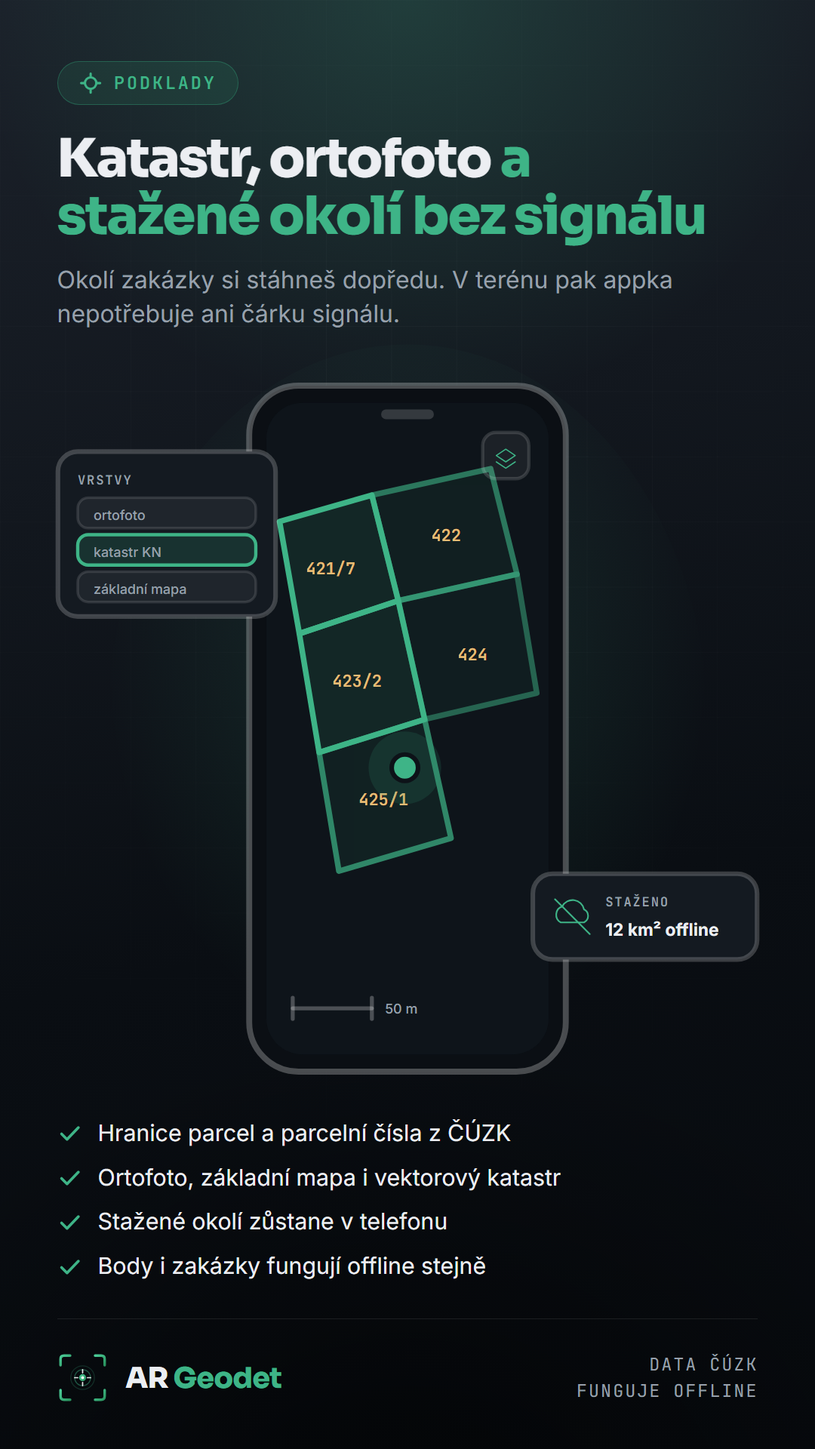
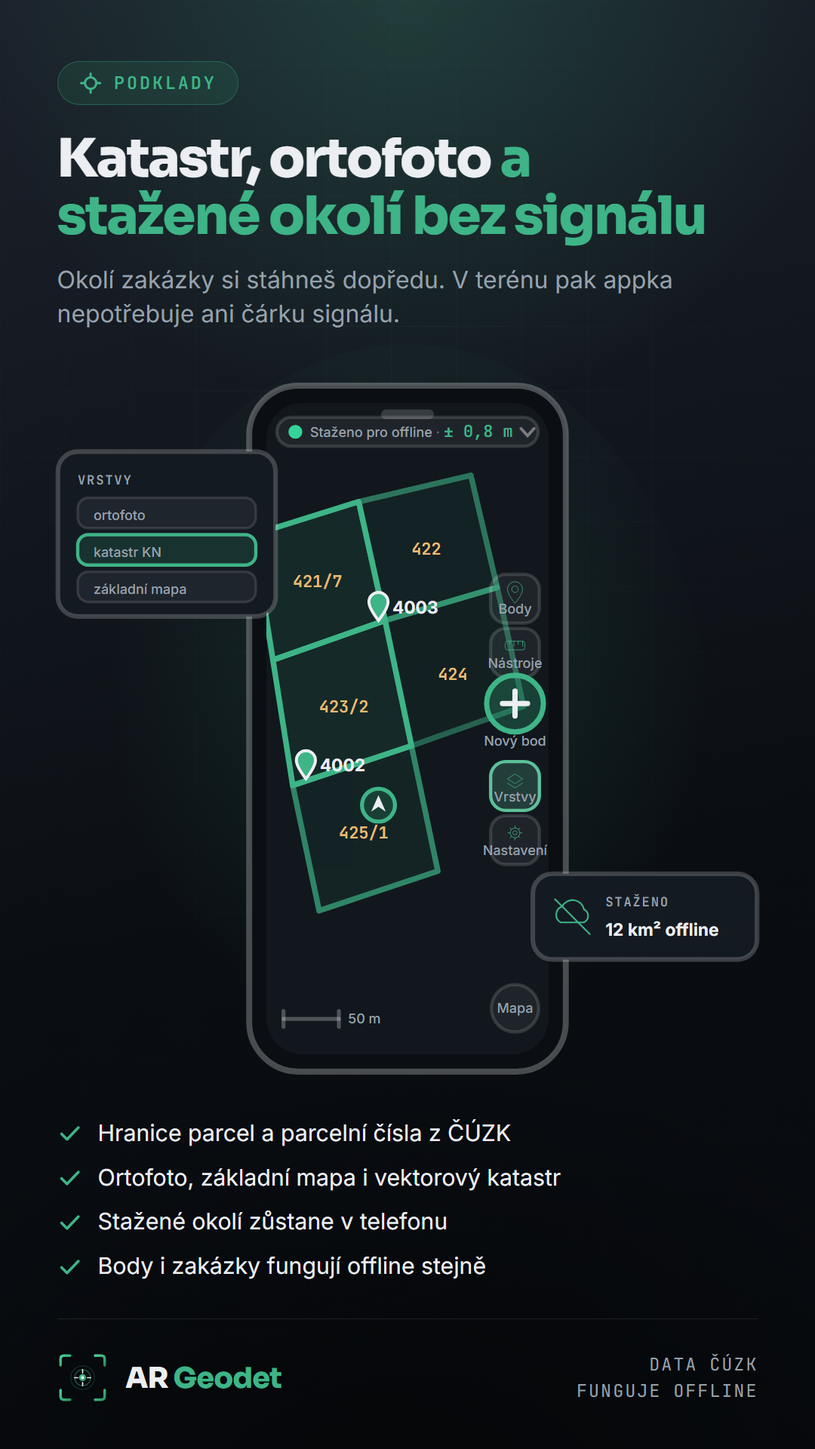
Rozhrani na promo obrazcich je OPSANE Z APPKY, ne vymyslene
Uzivatel: "jen to moc nevypada podle aplikace designem."

Mel pravdu — predloha si rozhrani VYMYSLELA: spodni lista, vystredene pilulky,
kroužky misto znacek. Appka vypada jinak. Nafotil jsem si ji tedy nabehnutou
v Chromiu (mapa, Nastroje) a podobu prekreslil podle snimku:

  • STAVOVA PILULKA nahore pres celou sirku: barevna tecka, hlaska, „· ± 0,8 m"
    a sipka na rozbaleni. Ne vystredena bublina.
  • SVISLY DOK U PRAVEHO OKRAJE, ne dole: Body · Nastroje · Novy bod · Vrstvy ·
    Nastaveni. Sklenene zaoblene ctverce s ikonou nahore a popiskem pod ni;
    „Novy bod" je VELKE ZELENE KOLECKO s +, ktere z rady vystupuje.
  • ZNACKY BODU jsou KAPKY (ne krouzky) v akcentni zelene s bilym obrysem
    a tucnym cislem bodu vedle. MOJE POLOHA je zeleny krouzek se sipkou.
  • OKNA jsou celoobrazovkova: zeleny nadpis s ikonou vlevo, kulate ✕ vpravo,
    vlaskova linka, hledaci pole, sekce VELKYMI PISMENY s poctem vpravo a radky
    se zelenou ikonou, tucnym nazvem a sedym podtitulkem, dole „Zavrit".
    Panel 3 je okno NASTROJE i se skutecnymi nazvy nastroju z appky, panel 4
    okno BODY se seznamem bodu zakazky.

⚠ MERITKO PODLE APPKY, NE OD OKA. Kapka je v appce ~28 px na displeji sirokem
412, tedy 2,9 jednotky souradnic sceny. Napoprvé byla dvojnasobna a znacky
prelezly pul obrazovky i dok — vypadalo to jako jina appka. Totez moje poloha.
Sirku doku urcuje NEJDELSI POPISEK („Nastaveni"), ne ikona.

Dalsi drobnosti videt az na PNG: kapka 4003 sedela presne na parcelnim cisle
[…]

Changed region(s): [[0.3056, 0.2812, 0.6722, 0.625], [0.3361, 0.6875, 0.4889, 0.7188], [0.6111, 0.6875, 0.6722, 0.7188]]

diff --git a/play/promo.html b/play/promo.html
@@ -415,20 +415,19 @@
     var T = { x: 31, y: 4, w: 48, h: 104, r: 7.5 };            // tělo telefonu
     var O = { x: T.x + 2.6, y: T.y + 2.6, w: T.w - 5.2, h: T.h - 5.2, r: 5.5 };  // obrazovka
 
-    // Obsah obrazovky se píše v JEJÍCH SOUŘADNICÍCH (0,0 = levý horní roh
+    // Obsah obrazovky se píše v JEJÍCH souřadnicích (0,0 = levý horní roh
     // obrazovky) a tahle obálka ho posune na místo. Bez toho by se každé
     // číslo muselo ručně přičítat k O.x / O.y a při posunu telefonu by se
     // přepisovala celá scéna.
     function displej(vnitrek) {
-        // ⚠ OŘEZ TVAREM OBRAZOVKY. Bez něj čtvercové výplně (obloha, mapa)
-        //    přetekly přes zaoblené rohy a telefon vypadal, jako by měl
-        //    obrazovku nalepenou přes rám.
+        // ⚠⚠ OŘEZ SE POČÍTÁ V SOUŘADNICÍCH OŘEZÁVANÉHO PRVKU, TEDY UŽ PO JEHO
+        //    `transform`. Napoprvé tu byl obdélník na absolutní pozici obrazovky
+        //    (O.x, O.y) — jenže skupina, na kterou se váže, je sama posunutá
+        //    o totéž, takže se ořez posunul dvakrát a z obrazovky zbyl proužek
+        //    u pravého okraje. Proto má clipPath 0,0 a jen rozměr obrazovky.
         return '<g clip-path="url(#displej)" transform="translate(' + O.x + ' ' + O.y + ')">' + vnitrek + '</g>';
     }
 
-    // Rám telefonu: záře pod ním, tělo, obrazovka, sluchátko. Záře je
-    // radiální přechod, ne filtr — filtry v Chromiu při screenshotu občas
-    // vyjdou zrnitě a tady jde o čistou plochu.
     function telefon(vnitrek) {
         return '' +
             '<ellipse cx="' + (T.x + T.w / 2) + '" cy="' + (T.y + T.h / 2) + '" rx="' + (T.w * 0.95) + '" ry="' + (T.h * 0.56) + '" fill="url(#zare)"/>' +
@@ -447,86 +446,182 @@
     var S = O.w;      // šířka obrazovky — obsah se do ní musí vejít
     var SV = O.h;     // výška obrazovky
 
+    // ==================================================================
+    // ROZHRANÍ APPKY — OPSANÉ Z NÍ, NE VYMYŠLENÉ
+    // ==================================================================
+    // ⚠⚠ NAHLÁŠENO 31. 8. 2026: „jen to moc nevypadá podle aplikace designem."
+    // Do té doby si předloha rozhraní VYMÝŠLELA (spodní lišta, vystředěné
+    // pilulky), zatímco appka má úplně jiné rozvržení. Podoba níž je opsaná
+    // ze skutečných snímků běžící appky:
+    //
+    //   • STAVOVÁ PILULKA nahoře přes celou šířku: barevná tečka, hláška,
+    //     „· ± 0,8 m · Azimut: 214,6°" a šipka na rozbalení. Čísla mono.
+    //   • SVISLÝ DOK U PRAVÉHO OKRAJE (ne dole!): Body · Nástroje ·
+    //     Nový bod · Vrstvy · Nastavení. Skleněné zaoblené čtverce s ikonou
+    //     nahoře a popiskem pod ní; „Nový bod" je VELKÉ ZELENÉ KOLEČKO s +,
+    //     které z řady vystupuje.
+    //   • ZNAČKY BODŮ jsou KAPKY (ne kroužky) v akcentní zelené s bílým
+    //     obrysem a tučným číslem bodu vedle.
+    //   • MOJE POLOHA je zelený kroužek se šipkou uvnitř.
+    //   • OKNA (Nástroje, Body) jsou celoobrazovková: zelený nadpis s ikonou
+    //     vlevo, kulaté ✕ vpravo, vlásková linka, hledací pole, sekce
+    //     VELKÝMI PÍSMENY s počtem vpravo a řádky se zelenou ikonou,
+    //     tučným názvem a šedým podtitulkem. Dole tlačítko „Zavřít".
+    //
+    // Kdyby se appka překreslila, TOHLE je místo, které se musí srovnat —
+    // jinak budou obrázky v obchodě slibovat něco jiného, než co se spustí.
+
+    // svislý dok u pravého okraje
+    // ⚠ ŠÍŘKA DOKU JE DANÁ NEJDELŠÍM POPISKEM („Nastavení"), ne ikonou. Napoprvé
+    //   byl dok užší a popisky mu přetékaly do mapy.
+    var DOK_X = S - 8.8, DOK_W = 7.4;
+    function dokTlacitko(y, ikona, popis) {
+        return '<rect class="ui" x="' + DOK_X + '" y="' + y + '" width="' + DOK_W + '" height="' + DOK_W + '" rx="2.3"/>' +
+            '<g class="lin" stroke-width="0.75" transform="translate(' + (DOK_X + DOK_W / 2) + ' ' + (y + 2.6) + ') scale(0.082)">' + ikona + '</g>' +
+            '<text class="t-drobne" x="' + (DOK_X + DOK_W / 2) + '" y="' + (y + 6) + '" text-anchor="middle" font-size="1.15">' + popis + '</text>';
+    }
+    var I_BODY = '<path d="M0 22 C0 22 -14 6 -14 -4 a14 14 0 0 1 28 0 C14 6 0 22 0 22 Z"/><circle cx="0" cy="-4" r="6"/>';
+    var I_METR = '<rect x="-18" y="-8" width="36" height="16" rx="4"/><path d="M-10 -8v6M-2 -8v9M6 -8v6M14 -8v9"/>';
+    var I_VRSTVY = '<path d="M-14 0 L0 -9 L14 0 L0 9 Z"/><path d="M-14 8 L0 17 L14 8"/>';
+    // ⚠ Zuby MUSÍ být krátké a kolo mít vnitřní kroužek — s dlouhými paprsky to
+    //   v téhle velikosti vypadalo jako sluníčko (jas), ne jako nastavení.
+    var I_OZUB = '<circle cx="0" cy="0" r="9"/><circle cx="0" cy="0" r="4"/>' +
+        '<path d="M0 -13v4M0 9v4M-13 0h4M9 0h4M-9.2 -9.2l2.8 2.8M6.4 6.4l2.8 2.8M9.2 -9.2l-2.8 2.8M-6.4 6.4l-2.8 2.8"/>';
+    function dok(aktivni) {
+        function zvyraznit(y) {
+            return aktivni ? '<rect x="' + DOK_X + '" y="' + y + '" width="' + DOK_W + '" height="' + DOK_W + '" rx="2.3" fill="rgba(47,158,116,0.20)" stroke="#3eb487" stroke-width="0.5"/>' : '';
+        }
+        return '' +
+            dokTlacitko(26, I_BODY, 'Body') +
+            dokTlacitko(34.2, I_METR, 'Nástroje') +
+            // „Nový bod" je v appce velké zelené kolečko, které z řady vystupuje
+            '<circle cx="' + (DOK_X + DOK_W / 2) + '" cy="45.6" r="4.3" fill="rgba(47,158,116,0.30)" stroke="#3eb487" stroke-width="0.8"/>' +
+            '<path d="M' + (DOK_X + DOK_W / 2 - 1.9) + ' 45.6h3.8M' + (DOK_X + DOK_W / 2) + ' 43.7v3.8" stroke="#eceef2" stroke-width="0.8" stroke-linecap="round"/>' +
+            '<text class="t-drobne" x="' + (DOK_X + DOK_W / 2) + '" y="52" text-anchor="middle" font-size="1.15">Nový bod</text>' +
+            (aktivni === 'vrstvy' ? zvyraznit(54.4) : '') +
+            dokTlacitko(54.4, I_VRSTVY, 'Vrstvy') +
+            dokTlacitko(62.6, I_OZUB, 'Nastavení');
+    }
+
+    // horní stavová pilulka appky
+    function stav(hlaska, barva) {
+        return '<rect class="ui" x="1.6" y="2.2" width="' + (S - 3.2) + '" height="4.4" rx="2.2"/>' +
+            '<circle cx="4.4" cy="4.4" r="1.05" fill="' + (barva || '#34d399') + '"/>' +
+            '<text class="t-drobne" x="6.6" y="5.15" font-size="1.85">' + hlaska +
+            '  <tspan class="cs-sep"> · </tspan>' +
+            '  <tspan class="t-akcent" font-size="1.85">± 0,8 m</tspan></text>' +
+            '<path d="M' + (S - 4.2) + ' 3.9 l1 1.1 l1 -1.1" fill="none" stroke="rgba(255,255,255,0.4)" stroke-width="0.45" stroke-linecap="round"/>';
+    }
+
+    // kapkovitá značka bodu s tučným číslem vedle — přesně jako v mapě appky
+    // ⚠ MĚŘÍTKO PODLE APPKY, NE OD OKA. Kapka je v appce ~28 px na displeji
+    //   širokém 412, tedy 2,9 jednotky téhle soustavy. Napoprvé byla dvojnásobná
+    //   a značky přelezly půl obrazovky i dok — vypadalo to jako jiná appka.
+    function pin(x, y, cislo, vzdalenost) {
+        return '<g transform="translate(' + x + ' ' + y + ') scale(0.5)">' +
+            '  <path d="M0 0 C0 0 -2.9 -3.6 -2.9 -5.6 a2.9 2.9 0 0 1 5.8 0 C2.9 -3.6 0 0 0 0 Z" fill="#3eb487" stroke="#eceef2" stroke-width="0.9"/>' +
+            '</g>' +
+            '<text class="t-nadpis" x="' + (x + 2.1) + '" y="' + (y - 1.1) + '" font-size="1.85">' + cislo +
+            (vzdalenost ? '  <tspan class="t-cislo" font-size="1.7">  ' + vzdalenost + '</tspan>' : '') +
+            '</text>';
+    }
+
+    // moje poloha: zelený kroužek se šipkou
+    function poloha(x, y) {
+        return '<circle cx="' + x + '" cy="' + y + '" r="2.5" fill="rgba(47,158,116,0.22)" stroke="#3eb487" stroke-width="0.6"/>' +
+            '<path d="M' + x + ' ' + (y - 1.5) + ' l1.1 2.5 l-1.1 -0.75 l-1.1 0.75 Z" fill="#eceef2"/>';
+    }
+
+    // celoobrazovkové okno appky (Nástroje, Body): nadpis, ✕, linka, obsah
+    function okno(nadpis, ikona, obsah, tlacitko) {
+        return '' +
+            '<rect x="0" y="0" width="' + S + '" height="' + SV + '" fill="#0d1218"/>' +
+            '<g class="lin" stroke-width="0.7" transform="translate(4.4 5.4) scale(0.1)">' + ikona + '</g>' +
+            '<text x="8.4" y="6.3" font-size="3.4" font-weight="700" fill="#3eb487" font-family="Sora, Inter, sans-serif">' + nadpis + '</text>' +
+            '<circle cx="' + (S - 4.6) + '" cy="5.2" r="2.8" fill="rgba(255,255,255,0.07)" stroke="rgba(255,255,255,0.16)" stroke-width="0.45"/>' +
+            '<path d="M' + (S - 5.7) + ' 4.1 l2.2 2.2 M' + (S - 3.5) + ' 4.1 l-2.2 2.2" stroke="#eceef2" stroke-width="0.6" stroke-linecap="round"/>' +
+            '<line class="lin-tenka" x1="1.6" y1="9.4" x2="' + (S - 1.6) + '" y2="9.4"/>' +
+            obsah +
+            '<rect class="ui" x="1.6" y="' + (SV - 8.6) + '" width="' + (S - 3.2) + '" height="6.4" rx="2.2"/>' +
+            '<text class="t-nadpis" x="' + (S / 2) + '" y="' + (SV - 4.3) + '" text-anchor="middle" font-size="2.5">' + (tlacitko || 'Zavřít') + '</text>';
+    }
+    // sekce v okně: VELKÝMI PÍSMENY vlevo, počet vpravo, vlásková linka pod
+    function sekce(y, jmeno, pocet) {
+        return '<text class="t-stitek" x="1.6" y="' + y + '" font-size="1.9">' + jmeno + '</text>' +
+            '<text class="t-drobne" x="' + (S - 1.6) + '" y="' + y + '" text-anchor="end" font-size="1.9">' + pocet + '</text>' +
+            '<line class="lin-tenka" x1="1.6" y1="' + (y + 1.8) + '" x2="' + (S - 1.6) + '" y2="' + (y + 1.8) + '"/>';
+    }
+    // řádek okna: ikona, tučný název, šedý podtitulek
+    function radek(y, ikona, nazev, podtitul) {
+        return '<rect class="ui" x="1.6" y="' + y + '" width="' + (S - 3.2) + '" height="' + (podtitul ? 8.4 : 6.6) + '" rx="2.4"/>' +
+            '<g class="lin" stroke-width="0.75" transform="translate(5.2 ' + (y + (podtitul ? 4.2 : 3.3)) + ') scale(0.085)">' + ikona + '</g>' +
+            '<text class="t-nadpis" x="9.4" y="' + (y + (podtitul ? 3.9 : 4.2)) + '" font-size="2.35">' + nazev + '</text>' +
+            (podtitul ? '<text class="t-drobne" x="9.4" y="' + (y + 6.9) + '" font-size="1.95">' + podtitul + '</text>' : '');
+    }
+
     // ------------------------------------------------------------------
     // ČTYŘI SCÉNY
     // ------------------------------------------------------------------
     var SCENY = {
 
-        // 1) V TERÉNU: obrazovka = AR pohled (stavová pilulka, terén, značky,
-        //    spodní navádění). Karty = počet bodů v okolí a azimut s přesností.
+        // 1) V TERÉNU: obraz kamery se značkami bodů, nad ním stavová pilulka
+        //    a svislý dok — tedy přesně to, co uživatel v terénu vidí.
         teren: telefon('' +
-            // obloha a země pod ní
-            '<path d="M0 0 H' + S + ' V' + (SV * 0.52) + ' Q' + (S * 0.55) + ' ' + (SV * 0.46) + ' 0 ' + (SV * 0.5) + ' Z" fill="url(#obloha)"/>' +
-            '<path class="lin-tenka" d="M0 ' + (SV * 0.5) + ' Q' + (S * 0.55) + ' ' + (SV * 0.46) + ' ' + S + ' ' + (SV * 0.52) + '"/>' +
-            '<path class="lin-prerus" d="M0 ' + (SV * 0.62) + ' Q' + (S * 0.5) + ' ' + (SV * 0.58) + ' ' + S + ' ' + (SV * 0.63) + '"/>' +
-            // stavová pilulka appky
-            '<rect class="ui" x="3" y="4.5" width="' + (S - 6) + '" height="6.4" rx="3.2"/>' +
-            '<circle cx="7.4" cy="7.7" r="1.5" fill="#34d399"/>' +
-            '<text class="t-akcent" x="10.6" y="8.6" font-size="2.4">± 0,8 m' +
-            '  <tspan class="cs-sep"> · </tspan>' +
-            '  <tspan class="t-drobne" font-size="2.3">214,6°</tspan></text>' +
-            // vzdálenější značka
-            // ⚠ ČÍSLO BODU A VZDÁLENOST MUSÍ MÍT MEZI SEBOU MÍSTO. Napoprvé stály
-            //    tak těsně, že se slily v „400127,4 m", a obě pilulky se navíc
-            //    překrývaly navzájem. Proto jsou od sebe odsazené i VÝŠKOVĚ.
-            '<g><line class="lin-tenka" x1="10" y1="' + (SV * 0.5) + '" x2="10" y2="' + (SV * 0.36) + '"/>' +
-            '<circle class="lin" cx="10" cy="' + (SV * 0.335) + '" r="2.4"/>' +
-            '<circle class="terc" cx="10" cy="' + (SV * 0.335) + '" r="1"/>' +
-            '<rect class="ui" x="1.5" y="' + (SV * 0.215) + '" width="20" height="5.4" rx="2.7"/>' +
-            '<text class="t-nadpis" x="4" y="' + (SV * 0.215 + 3.7) + '" font-size="2.3">4001' +
-            '  <tspan class="cs-sep"> · </tspan>' +
-            '  <tspan class="t-cislo" font-size="2.2">27,4 m</tspan></text></g>' +
-            // cílová značka
-            '<g><line class="lin-tenka" x1="28" y1="' + (SV * 0.56) + '" x2="28" y2="' + (SV * 0.42) + '"/>' +
-            '<circle class="lin" cx="28" cy="' + (SV * 0.375) + '" r="4" stroke-width="1.4"/>' +
-            '<circle class="lin" cx="28" cy="' + (SV * 0.375) + '" r="7" opacity="0.3"/>' +
-            '<circle class="terc" cx="28" cy="' + (SV * 0.375) + '" r="1.6"/>' +
-            '<rect class="ui" x="21" y="' + (SV * 0.245) + '" width="20.5" height="5.8" rx="2.9"/>' +
-            '<text class="t-nadpis" x="23.5" y="' + (SV * 0.245 + 3.9) + '" font-size="2.4">4002' +
-            '  <tspan class="cs-sep"> · </tspan>' +
-            '  <tspan class="t-cislo" font-size="2.3">8,1 m</tspan></text></g>' +
-            // spodní navádění
-            '<rect class="ui" x="3" y="' + (SV - 16) + '" width="' + (S - 6) + '" height="11" rx="3.5"/>' +
-            '<g transform="translate(9.5 ' + (SV - 10.5) + ')">' +
-            '  <circle class="lin" cx="0" cy="0" r="4" opacity="0.4"/>' +
-            '  <path d="M0 -3 L1.9 1.6 L0 0.6 L-1.9 1.6 Z" fill="rgba(47,158,116,0.3)" stroke="#3eb487" stroke-width="0.6" stroke-linejoin="round"/>' +
+            '<path d="M0 0 H' + S + ' V' + (SV * 0.54) + ' Q' + (S * 0.55) + ' ' + (SV * 0.48) + ' 0 ' + (SV * 0.52) + ' Z" fill="url(#obloha)"/>' +
+            '<path class="lin-tenka" d="M0 ' + (SV * 0.52) + ' Q' + (S * 0.55) + ' ' + (SV * 0.48) + ' ' + S + ' ' + (SV * 0.54) + '"/>' +
+            '<path class="lin-prerus" d="M0 ' + (SV * 0.64) + ' Q' + (S * 0.5) + ' ' + (SV * 0.6) + ' ' + S + ' ' + (SV * 0.65) + '"/>' +
+            stav('Můžeš měřit') +
+            // značky bodů v obraze, každá se vzdáleností pod číslem
+            pin(5, 31, '4003', '27,4 m') +
+            pin(13, 23, '4002', '8,1 m') +
+            pin(9, 42, '4005', '41,0 m') +
+            poloha(11, 58) +
+            dok() +
+            // spodní navádění na vybraný bod
+            '<rect class="ui" x="1.6" y="' + (SV - 12.6) + '" width="' + (S - 11.6) + '" height="9.4" rx="3"/>' +
+            '<g transform="translate(6.2 ' + (SV - 7.9) + ')">' +
+            '  <circle class="lin" cx="0" cy="0" r="3.2" opacity="0.45" stroke-width="0.6"/>' +
+            '  <path d="M0 -2.3 L1.5 1.3 L0 0.5 L-1.5 1.3 Z" fill="#3eb487"/>' +
             '</g>' +
-            '<text class="t-velke" x="16" y="' + (SV - 9.6) + '">8,4 m</text>' +
-            '<text class="t-stitek" x="16" y="' + (SV - 6.2) + '">DO BODU 4002</text>'
+            '<text class="t-velke" x="11.4" y="' + (SV - 7.6) + '" font-size="3.9">8,4 m</text>' +
+            '<text class="t-stitek" x="11.4" y="' + (SV - 4.4) + '" font-size="1.75">DO BODU 4002</text>'
         ) +
             karta(2, 20, 34, 11,
                 '<text class="t-stitek" x="5" y="25">BODOVÉ POLE ČÚZK</text>' +
                 '<text class="t-nadpis" x="5" y="29.2">128 bodů v okolí</text>') +
-            karta(74, 74, 34, 11,
-                '<text class="t-stitek" x="77" y="79">SEVER SROVNÁN</text>' +
-                '<text class="t-nadpis" x="77" y="83.2">azimut 214,6°</text>'),
+            karta(74, 79, 34, 11,
+                '<text class="t-stitek" x="77" y="84">SEVER SROVNÁN</text>' +
+                '<text class="t-nadpis" x="77" y="88.2">azimut 214,6°</text>'),
 
-        // 2) PODKLADY: obrazovka = mapa s parcelami. Karty = přepínač vrstev
-        //    a odznak staženého okolí.
+        // 2) PODKLADY: mapa appky — parcely, kapky bodů, moje poloha, měřítko
+        //    a dok se zvýrazněnými Vrstvami.
         podklady: telefon('' +
-            '<rect x="0" y="0" width="' + S + '" height="' + SV + '" fill="#0e141a"/>' +
-            '<polygon class="plocha" points="2,18 16,14 20,30 5,35"/>' +
-            '<polygon class="plocha" points="16,14 34,10 38,26 20,30" opacity="0.62"/>' +
-            '<polygon class="plocha" points="5,35 20,30 24,48 8,53"/>' +
-            '<polygon class="plocha" points="20,30 38,26 41,44 24,48" opacity="0.5"/>' +
-            '<polygon class="plocha" points="8,53 24,48 28,66 11,71" opacity="0.72"/>' +
-            '<text class="t-cislo" x="6" y="26" font-size="2.1">421/7</text>' +
-            '<text class="t-cislo" x="25" y="21" font-size="2.1">422</text>' +
-            '<text class="t-cislo" x="10" y="43" font-size="2.1">423/2</text>' +
-            '<text class="t-cislo" x="29" y="39" font-size="2.1">424</text>' +
-            '<text class="t-cislo" x="14" y="61" font-size="2.1">425/1</text>' +
-            // moje poloha
-            '<circle cx="21" cy="' + (SV * 0.56) + '" r="5.5" fill="rgba(47,158,116,0.16)"/>' +
-            '<circle cx="21" cy="' + (SV * 0.56) + '" r="2" fill="#3eb487" stroke="#0d1218" stroke-width="0.7"/>' +
-            // měřítko dole
-            '<line class="lin-tenka" x1="4" y1="' + (SV - 7) + '" x2="16" y2="' + (SV - 7) + '"/>' +
-            '<line class="lin-tenka" x1="4" y1="' + (SV - 8.6) + '" x2="4" y2="' + (SV - 5.4) + '"/>' +
-            '<line class="lin-tenka" x1="16" y1="' + (SV - 8.6) + '" x2="16" y2="' + (SV - 5.4) + '"/>' +
-            '<text class="t-drobne" x="18" y="' + (SV - 6.2) + '" font-size="1.9">50 m</text>' +
-            // tlačítko vrstev
-            '<rect class="ui" x="' + (S - 10) + '" y="4.5" width="7" height="7" rx="2"/>' +
-            '<g class="lin" transform="translate(' + (S - 6.5) + ' 8) scale(0.16)" stroke-width="6">' +
-            '  <path d="M-9 0 L0 -6 L9 0 L0 6 Z"/><path d="M-9 6 L0 12 L9 6"/></g>'
+            '<rect x="0" y="0" width="' + S + '" height="' + SV + '" fill="#11171d"/>' +
+            '<polygon class="plocha" points="-2,20 14,15 18,33 1,39"/>' +
+            '<polygon class="plocha" points="14,15 31,11 35,28 18,33" opacity="0.6"/>' +
+            '<polygon class="plocha" points="1,39 18,33 22,52 4,58"/>' +
+            '<polygon class="plocha" points="18,33 35,28 39,46 22,52" opacity="0.48"/>' +
+            '<polygon class="plocha" points="4,58 22,52 26,71 8,77" opacity="0.7"/>' +
+            '<text class="t-cislo" x="4" y="28" font-size="1.9">421/7</text>' +
+            '<text class="t-cislo" x="22" y="23" font-size="1.9">422</text>' +
+            '<text class="t-cislo" x="8" y="47" font-size="1.9">423/2</text>' +
+            '<text class="t-cislo" x="26" y="42" font-size="1.9">424</text>' +
+            '<text class="t-cislo" x="11" y="66" font-size="1.9">425/1</text>' +
+            // ⚠ Značky patří DO PRÁZDNÝCH MÍST mezi parcelní čísla — jinak jedno
+            //   přes druhé (kapka 4003 seděla přesně na „421/7").
+            pin(17, 33, '4003') +
+            pin(6, 57, '4002') +
+            poloha(17, 61) +
+            stav('Staženo pro offline') +
+            dok('vrstvy') +
+            // měřítko dole vlevo, jako v mapě appky
+            '<line class="lin-tenka" x1="2.6" y1="' + (SV - 5.4) + '" x2="11" y2="' + (SV - 5.4) + '"/>' +
+            '<line class="lin-tenka" x1="2.6" y1="' + (SV - 6.6) + '" x2="2.6" y2="' + (SV - 4.2) + '"/>' +
+            '<line class="lin-tenka" x1="11" y1="' + (SV - 6.6) + '" x2="11" y2="' + (SV - 4.2) + '"/>' +
+            '<text class="t-drobne" x="12.4" y="' + (SV - 4.7) + '" font-size="1.8">50 m</text>' +
+            // kulaté tlačítko přepnutí zobrazení vpravo dole
+            '<circle class="ui" cx="' + (DOK_X + DOK_W / 2) + '" cy="' + (SV - 7) + '" r="3.6"/>' +
+            '<text class="t-drobne" x="' + (DOK_X + DOK_W / 2) + '" y="' + (SV - 6.3) + '" text-anchor="middle" font-size="1.5">Mapa</text>'
         ) +
             karta(2, 14, 33, 25,
                 '<text class="t-stitek" x="5" y="19">VRSTVY</text>' +
@@ -542,66 +637,52 @@
                 '<text class="t-stitek" x="85" y="83">STAŽENO</text>' +
                 '<text class="t-nadpis" x="85" y="87.4">12 km² offline</text>'),
 
-        // 3) MĚŘENÍ A VÝPOČTY: obrazovka = terč vytyčení s odchylkou.
-        //    Karty = výměra parcely a stav GPS.
-        vypocty: telefon('' +
-            '<rect class="ui" x="3" y="4.5" width="' + (S - 6) + '" height="6.4" rx="3.2"/>' +
-            '<text class="t-drobne" x="6" y="8.6">Vytyčení bodu' +
-            '  <tspan class="cs-sep"> · </tspan>' +
-            '  <tspan class="t-akcent" font-size="2.4">4002</tspan></text>' +
-            // terč
-            '<g transform="translate(' + (S / 2) + ' ' + (SV * 0.42) + ')">' +
-            '  <circle class="lin" cx="0" cy="0" r="17" opacity="0.14"/>' +
-            '  <circle class="lin" cx="0" cy="0" r="11" opacity="0.3"/>' +
-            '  <circle class="lin" cx="0" cy="0" r="5.5" opacity="0.5"/>' +
-            '  <g class="lin" opacity="0.4"><path d="M0 -20v4M0 16v4M-20 0h4M16 0h4"/></g>' +
-            '  <circle class="terc" cx="0" cy="0" r="1.3"/>' +
-            '  <line class="lin-prerus" x1="0" y1="0" x2="6" y2="-4"/>' +
-            '  <circle cx="6" cy="-4" r="2.6" fill="rgba(230,189,118,0.25)" stroke="#e6bd76" stroke-width="0.9"/>' +
-            '  <circle class="zlata" cx="6" cy="-4" r="0.9"/>' +
-            '</g>' +
-            // odchylka
-            '<rect class="ui" x="3" y="' + (SV * 0.68) + '" width="' + (S - 6) + '" height="12" rx="3.5"/>' +
-            '<text class="t-stitek" x="6" y="' + (SV * 0.68 + 4.4) + '">ODCHYLKA</text>' +
-            '<text class="t-velke" x="6" y="' + (SV * 0.68 + 9.6) + '">0,03 m' +
-            '  <tspan class="t-drobne" font-size="2.3">  k severu</tspan></text>' +
-            // protokol
-            '<rect class="ui" x="3" y="' + (SV - 13) + '" width="' + (S - 6) + '" height="8" rx="2.6"/>' +
-            '<text class="t-drobne" x="6" y="' + (SV - 7.6) + '">Protokol vytyčení' +
-            '  <tspan class="cs-sep"> · </tspan>' +
-            '  <tspan class="t-akcent" font-size="2.1">PDF</tspan></text>'
+        // 3) MĚŘENÍ A VÝPOČTY: okno Nástroje tak, jak v appce vypadá —
+        //    i s názvy nástrojů, které v ní opravdu jsou.
+        vypocty: telefon(
+            okno('Nástroje', I_METR,
+                '<rect class="ui" x="1.6" y="11.6" width="' + (S - 3.2) + '" height="5.4" rx="2"/>' +
+                '<text class="t-drobne" x="4.4" y="15.3" font-size="2.1">Hledat nástroj…</text>' +
+                sekce(22.4, 'ZMĚŘIT', '8') +
+                radek(26, I_METR, 'Vzdálenost a převýšení', 'mezi dvěma body') +
+                radek(36, '<path d="M-14 -6 L0 -14 L14 -6 L9 10 L-9 10 Z"/>', 'Plochu a obvod pozemku', 'výměra na pár ťuknutí') +
+                radek(46, '<path d="M0 -14 L14 -6 V8 L0 16 L-14 8 V-6 Z"/><path d="M-14 -6 L0 2 L14 -6M0 2v14"/>', 'Kubaturu a vrstevnice', 'z naměřených bodů') +
+                radek(56, '<circle cx="0" cy="0" r="9"/><path d="M0 -14v5M9 6l4 3"/>', 'Kontrolní měření', 'týž bod podruhé, jediná poctivá přesnost') +
+                sekce(70.4, 'VYTYČIT', '5') +
+                radek(74, '<circle cx="0" cy="0" r="12"/><circle cx="0" cy="0" r="4"/><path d="M0 -18v4M0 14v4M-18 0h4M14 0h4"/>', 'Bod i přímku', 's živou odchylkou'),
+                'Zavřít')
         ) +
             karta(2, 16, 34, 13,
                 '<text class="t-stitek" x="5" y="21">VÝMĚRA PARCELY</text>' +
                 '<text class="t-velke" x="5" y="26.4" font-size="4">1 042 m²</text>') +
             karta(74, 71, 34, 17,
-                '<text class="t-stitek" x="77" y="76.5">STAV GPS</text>' +
-                '<circle cx="78.6" cy="81.2" r="1.5" fill="#34d399"/>' +
-                '<text class="t-akcent" x="81.6" y="82.1">± 0,8 m</text>' +
-                '<text class="t-drobne" x="77" y="86.4" font-size="1.9">12 družic · dá se měřit</text>'),
+                '<text class="t-stitek" x="77" y="76.5">ODCHYLKA VYTYČENÍ</text>' +
+                '<text class="t-velke" x="77" y="82.4" font-size="4">0,03 m</text>' +
+                '<text class="t-drobne" x="77" y="86.4" font-size="1.9">± 0,8 m · 12 družic</text>'),
 
-        // 4) PO MĚŘENÍ: obrazovka = seznam bodů zakázky. Karty = formáty
-        //    exportu a tým, který na zakázce dělá.
-        kancelar: telefon('' +
-            '<rect class="ui" x="3" y="4.5" width="' + (S - 6) + '" height="8" rx="2.6"/>' +
-            '<text class="t-nadpis" x="6" y="8.4" font-size="2.4">Rekonstrukce III/3084</text>' +
-            '<text class="t-drobne" x="6" y="11.4" font-size="1.9">128 bodů · S-JTSK / Bpv</text>' +
-            (function () {
-                var r = '', i, y;
-                var body = [['4001', 'Mezník', '±0,8'], ['4002', 'Roh budovy', '±0,6'],
-                            ['4003', 'Šachta', '±1,1'], ['4004', 'Obruba', '±0,7'],
-                            ['4005', 'Sloup VN', '±0,9']];
-                for (i = 0; i < body.length; i++) {
-                    y = 16.5 + i * 9;
-                    r += '<rect class="ui" x="3" y="' + y + '" width="' + (S - 6) + '" height="7.6" rx="2.2"/>' +
-                         '<text class="t-akcent" x="6" y="' + (y + 4.9) + '" font-size="2.3">' + body[i][0] + '</text>' +
-                         '<text class="t-drobne" x="14" y="' + (y + 4.9) + '" font-size="2.1">' + body[i][1] + '</text>' +
-                         '<text class="t-cislo" x="' + (S - 9.5) + '" y="' + (y + 4.9) + '" font-size="2.1">' + body[i][2] + '</text>';
-                }
-                return r;
-            })() +
-            '<rect x="3" y="' + (SV - 13) + '" width="' + (S - 6) + '" height="8.5" rx="2.8" fill="rgba(47,158,116,0.2)" stroke="#3eb487" stroke-width="0.6"/>' +
-            '<text class="t-nadpis" x="' + (S / 2) + '" y="' + (SV - 7.3) + '" text-anchor="middle" fill="#3eb487" font-size="2.4">Exportovat zakázku</text>'
+        // 4) PO MĚŘENÍ: okno Body — terénní seznam bodů zakázky, u každého
+        //    přesnost. Dole tlačítko exportu.
+        kancelar: telefon(
+            okno('Body', I_BODY,
+                '<text class="t-drobne" x="1.6" y="14.4" font-size="2.1">Rekonstrukce III/3084' +
+                '  <tspan class="cs-sep"> · </tspan><tspan font-size="2.1">128 bodů</tspan></text>' +
+                sekce(19.4, 'DNES ZMĚŘENO', '8') +
+                (function () {
+                    var r = '', i, y;
+                    var b = [['4001', 'Mezník', '± 0,8'], ['4002', 'Roh budovy', '± 0,6'],
+                             ['4003', 'Šachta', '± 1,1'], ['4004', 'Obruba', '± 0,7'],
+                             ['4005', 'Sloup VN', '± 0,9'], ['4006', 'Hraniční kámen', '± 0,8'],
+                             ['4007', 'Patník', '± 1,0'], ['4008', 'Roh plotu', '± 0,6']];
+                    for (i = 0; i < b.length; i++) {
+                        y = 22.6 + i * 8.4;
+                        r += '<rect class="ui" x="1.6" y="' + y + '" width="' + (S - 3.2) + '" height="7" rx="2.3"/>' +
+                             '<text class="t-akcent" x="4.2" y="' + (y + 4.5) + '" font-size="2.3">' + b[i][0] + '</text>' +
+                             '<text class="t-drobne" x="11.4" y="' + (y + 4.5) + '" font-size="2.05">' + b[i][1] + '</text>' +
+                             '<text class="t-cislo" x="' + (S - 4.2) + '" y="' + (y + 4.5) + '" text-anchor="end" font-size="2">' + b[i][2] + '</text>';
+                    }
+                    return r;
+                })(),
+                'Exportovat zakázku')
         ) +
             karta(2, 18, 33, 22,
                 '<text class="t-stitek" x="5" y="23">EXPORT</text>' +
@@ -621,6 +702,7 @@
                 '<text class="t-nadpis" x="97" y="81.9" text-anchor="middle" font-size="2.1">JD</text>' +
                 '<text class="t-drobne" x="77" y="88" font-size="1.9">admin · měření · vedení</text>')
     };
+
 
     // přechody, které scény používají (jedny pro všechny panely)
     var DEFS = '<defs>' +
